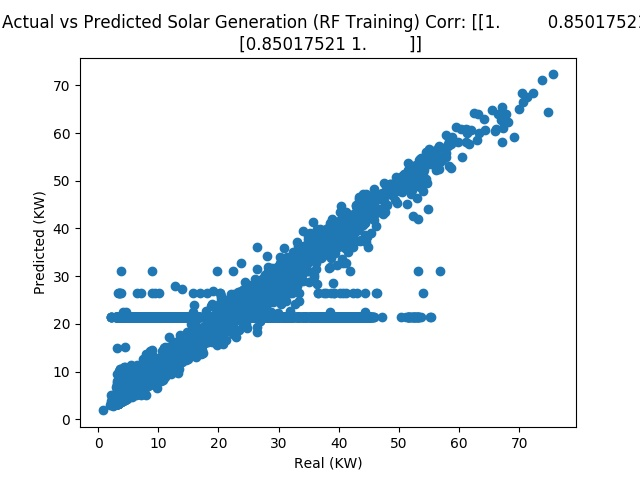
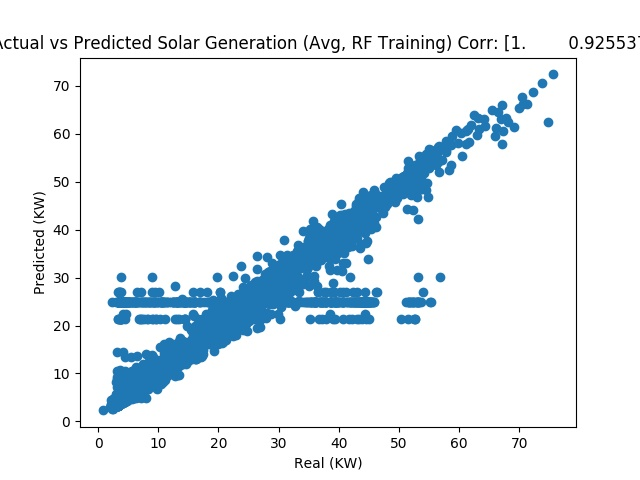
rf stuff

diff --git a/code/random_forest.py b/code/random_forest.py
@@ -14,11 +14,11 @@ x = np.nan_to_num(x, copy=True)
 y = np.nan_to_num(y, copy=True)
 y = y/1000
 
-x_train = x[0:4999]
-x_test = x[5000:-1]
+x_train = x[0:3999]
+x_test = x[4000:4400]
 
-y_train = y[0:4999]
-y_test = y[5000:-1]
+y_train = y[0:3999]
+y_test = y[4000:4400]
 
 print(y_test.shape)
 
@@ -31,21 +31,21 @@ with np.errstate(invalid='ignore'):
     correlation = np.corrcoef(y_train, predictions)
 
 
-    title_name = 'Actual vs Predicted Solar Generation (RF Training) Corr: {}'.format(correlation[0])
+    title_name = 'Actual vs Predicted Solar Generation (Avg, RF Training) Corr: {}'.format(correlation[0])
     x_axis_label = "Real (KW)"
     y_axis_label = "Predicted (KW)"
 
-    #plt.scatter(y_train, predictions)
-    #plt.title(title_name)
-    #plt.xlabel(x_axis_label)
-    #plt.ylabel(y_axis_label)
-    #plt.savefig('../figures/rf_train1.jpg')
+    plt.scatter(y_train, predictions)
+    plt.title(title_name)
+    plt.xlabel(x_axis_label)
+    plt.ylabel(y_axis_label)
+    plt.savefig('../figures/rf_train1.jpg')
 
     # TEST DATA
     predictions2 = regressor.predict(x_test)
     correlation2 = np.corrcoef(y_test, predictions2)
 
-    title_name2 = "Actual vs Predicted Solar Generation (RF Test) Corr: {}".format(correlation2[0])
+    title_name2 = "Actual vs Predicted Solar Generation (Avg, RF Test) Corr: {}".format(correlation2[0])
     x_axis_label2 = "Real (KW)"
     y_axis_label2 = "Predicted (KW)"
 
